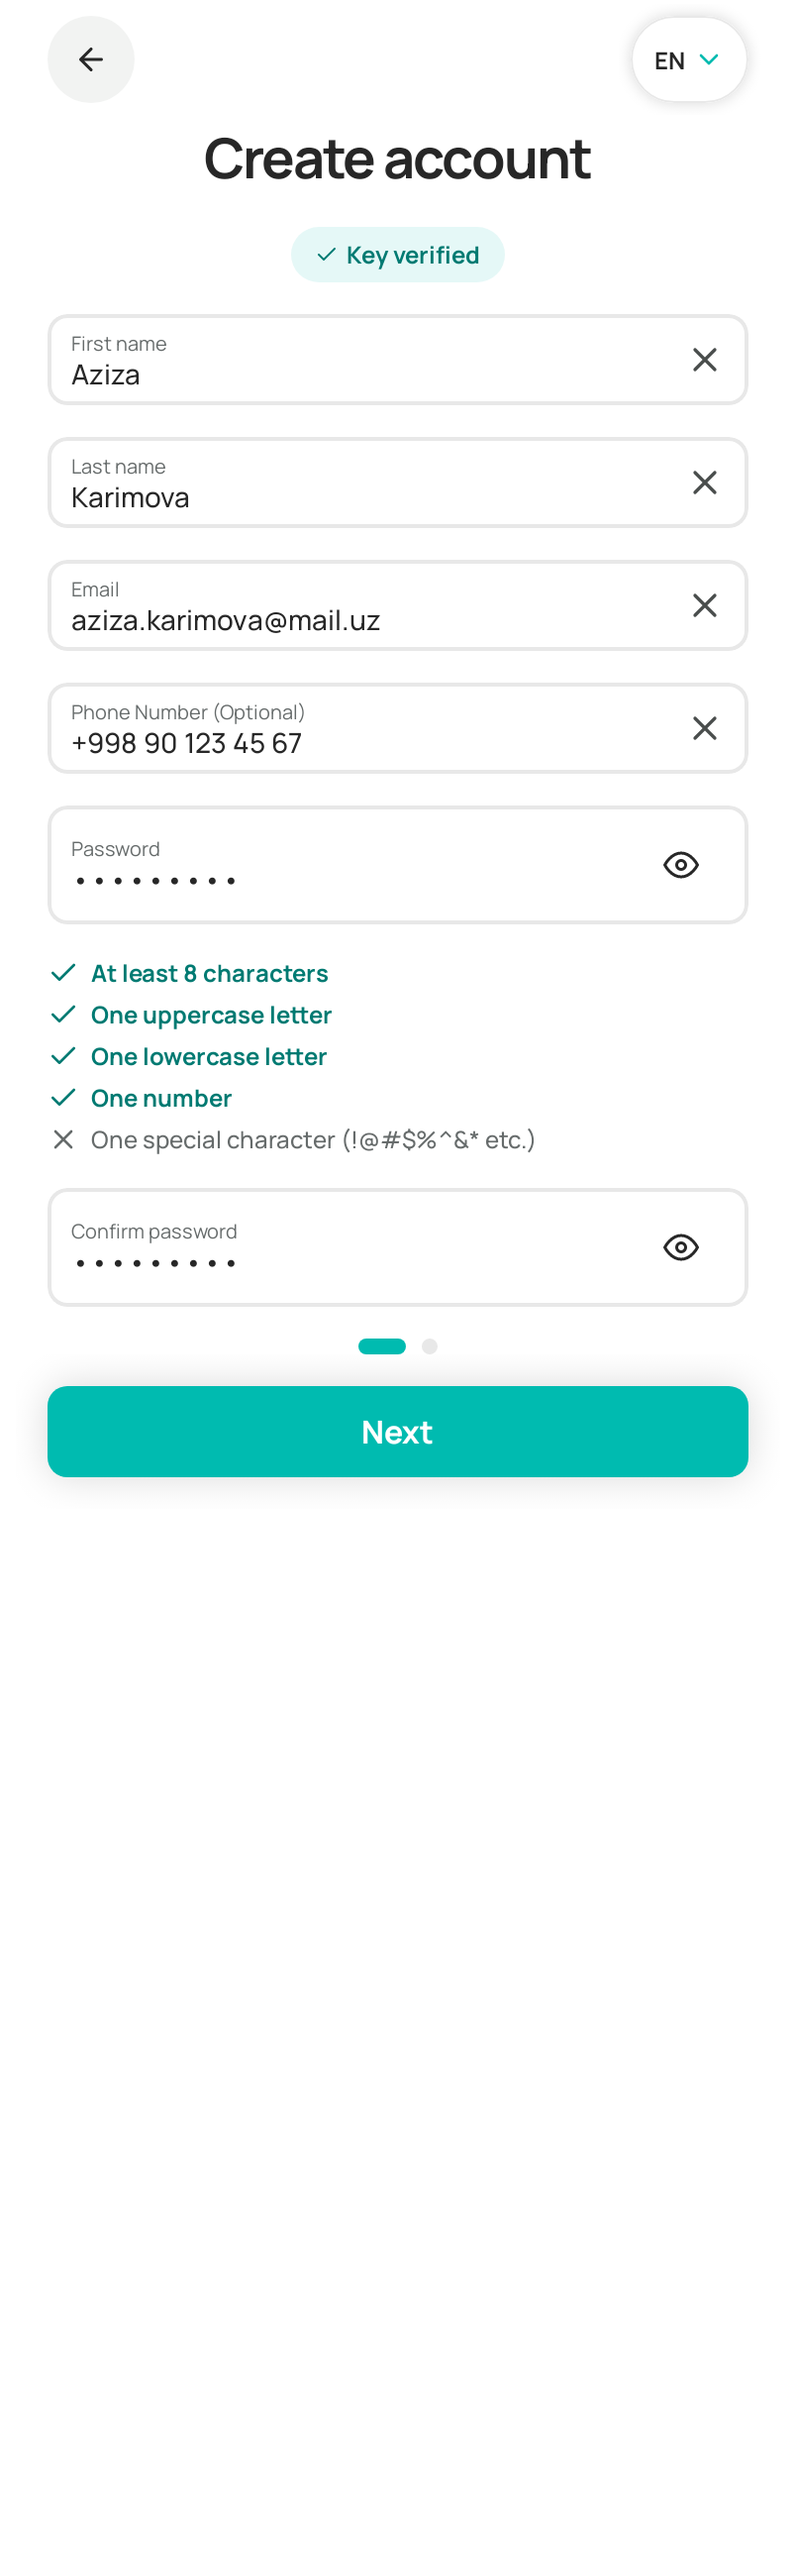
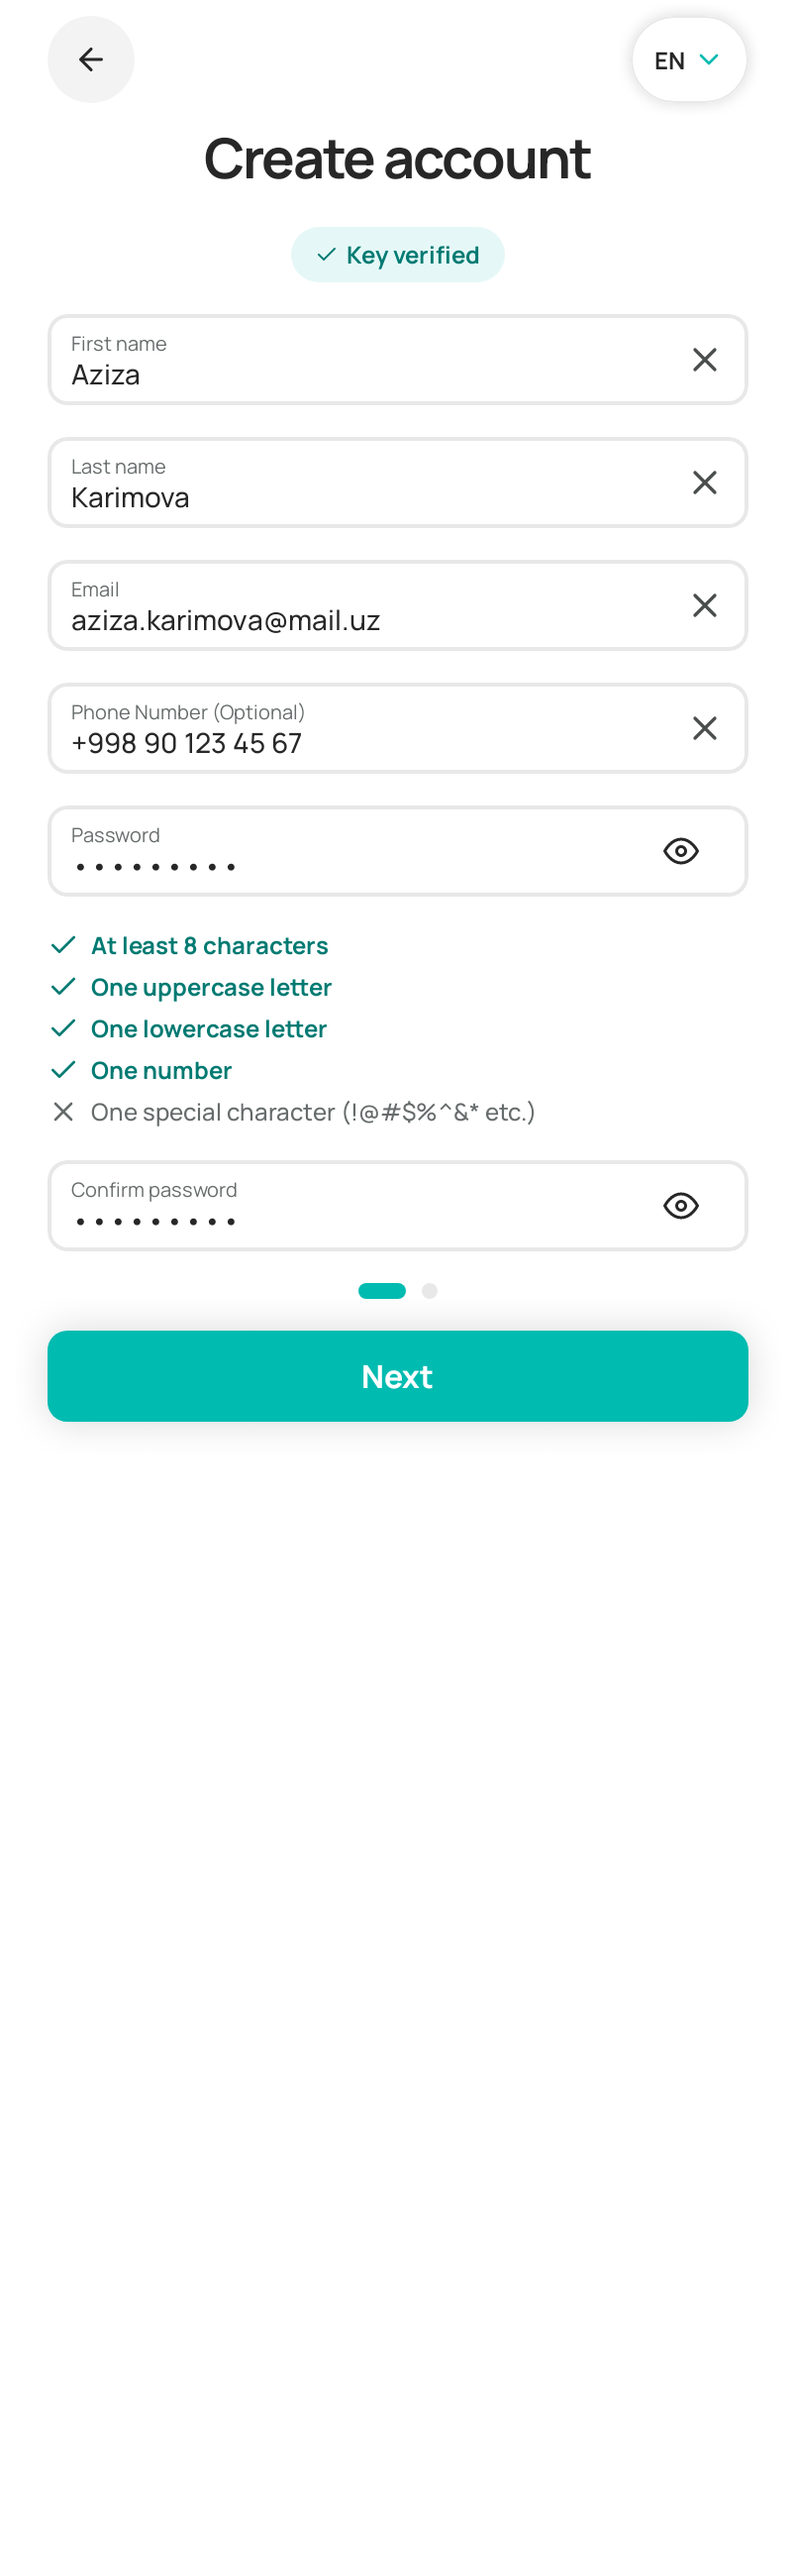
fix(ui): fields with a trailing button as tall as the others
The 44 dp touch target of the password eye (and Verify Key's Paste)
set the field's height: 60 dp against 46 for the other fields, on every
platform. The trailing slot is now as tall as the text line and the
button reaches into the padding; its touch area is unchanged.

Changed region(s): [[0.0622, 0.3115, 0.9639, 0.5919], [0.8396, 0.3115, 0.8706, 0.3427]]

diff --git a/composeApp/src/commonMain/kotlin/shifa/doctor/ui/widgets/ShifaInputField.kt b/composeApp/src/commonMain/kotlin/shifa/doctor/ui/widgets/ShifaInputField.kt
@@ -13,6 +13,7 @@ import androidx.compose.foundation.layout.fillMaxWidth
 import androidx.compose.foundation.layout.height
 import androidx.compose.foundation.layout.heightIn
 import androidx.compose.foundation.layout.padding
+import androidx.compose.foundation.layout.wrapContentHeight
 import androidx.compose.foundation.text.BasicTextField
 import androidx.compose.foundation.text.KeyboardActions
 import androidx.compose.foundation.text.KeyboardOptions
@@ -116,8 +117,14 @@ fun ShifaInputField(
                             innerTextField()
                         }
                     }
-                    if (trailingIcon != null) {
+                    if (trailingIcon != null && multiline) {
                         trailingIcon()
+                    } else if (trailingIcon != null) {
+                        // As tall as the text: a 44 touch target (the password eye) reaches into the padding instead
+                        // of making this field taller than the ones beside it.
+                        Box(Modifier.height(ShifaSize.S30), contentAlignment = Alignment.Center) {
+                            Box(Modifier.wrapContentHeight(unbounded = true)) { trailingIcon() }
+                        }
                     } else if (enabled && clearable && value.isNotEmpty()) {
                         Icon(
                             painterResource(Res.drawable.ic_x_20),

diff --git a/docs/implemented/README.md b/docs/implemented/README.md
@@ -417,3 +417,4 @@ Recorded so they are not re-litigated. IDs are from `17-master-plan.md` §3.
 - 2026-11-09 · WEB-11 · Splash shows the doctor app's icon and lasts 1 s; the web preloads its .wasm files.
 - 2026-11-09 · FONT-UZ · Қ қ Ғ ғ Ҳ ҳ added to Manrope: Ўзбекча no longer has blank letters on the web.
 - 2026-11-09 · FONT-UZ, WEB-11 · ʻ ʼ ⋮ ✓ ⚠ ◷ in the fonts, a font check over every string, versioned resource URLs, a smoother start and smoother page loads on phones.
+- 2026-11-09 · UI · Fields with a trailing button (password eye, Paste) are as tall as the others: the 44 touch target reaches into the padding instead of stretching the field (it was 60 against 46).
